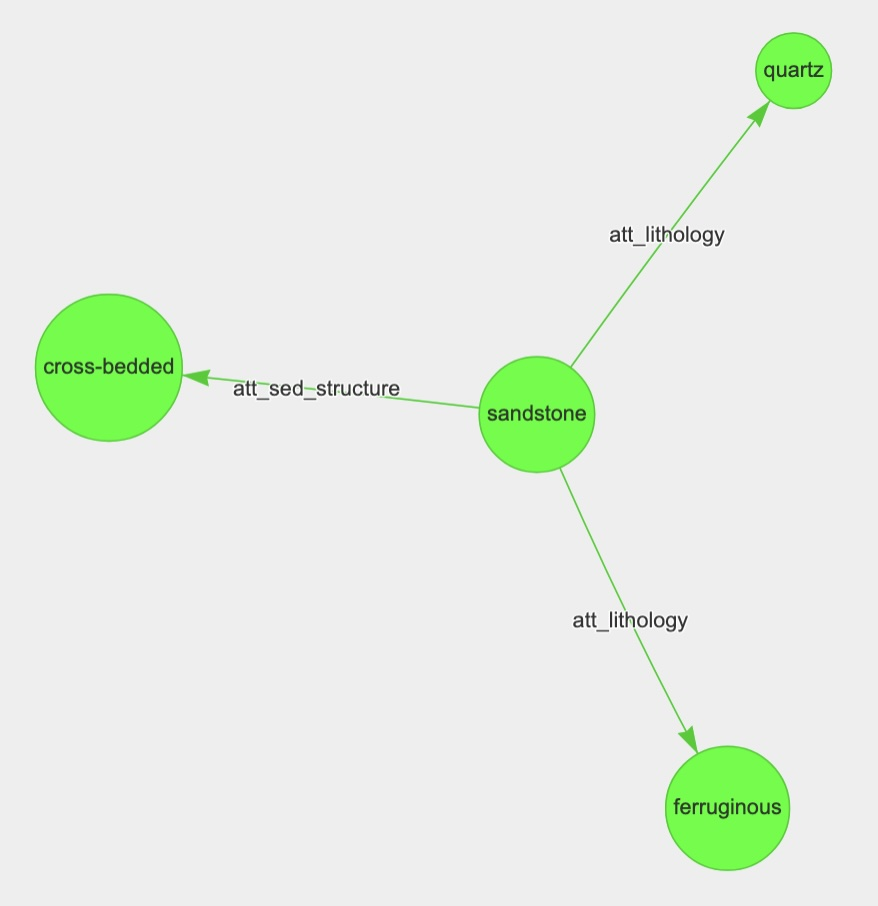
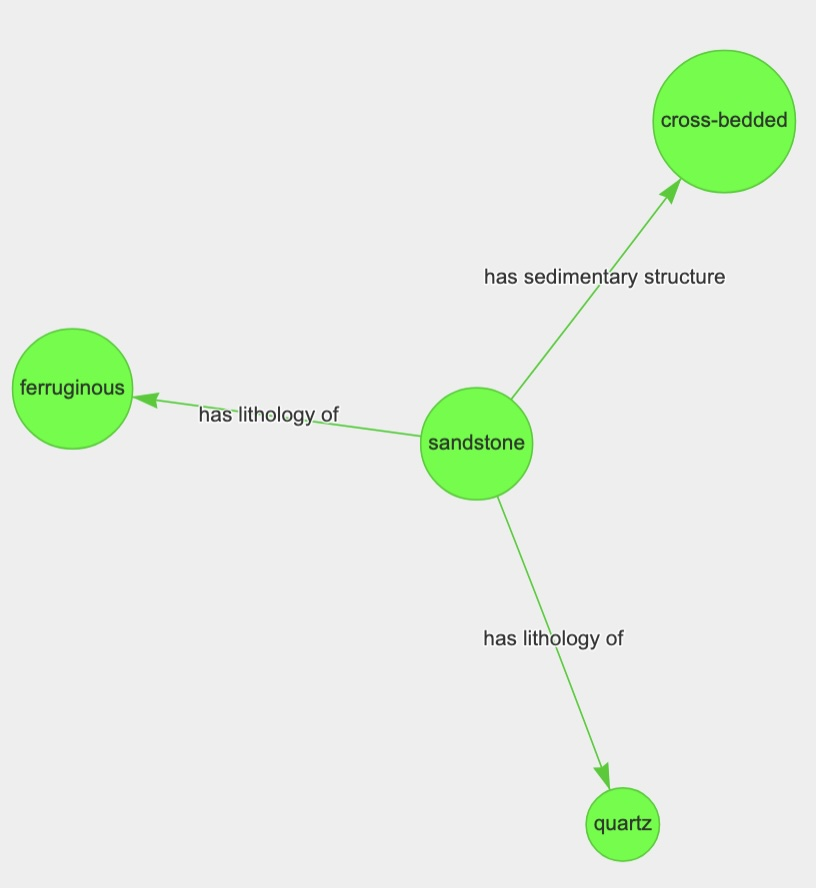
Updated image

diff --git a/rebel_kg/kg_runner.py b/rebel_kg/kg_runner.py
@@ -102,6 +102,10 @@ def read_args():
     parser.add_argument('--model_path', type = str, default = "Babelscape/rebel-large", help = "The model we want to use for generating kg")
     return parser.parse_args()
 
+relation_name_mappings = {
+    "att_lithology" : "has lithology of",
+    "att_sed_structure" : "has sedimentary structure",
+}
 def save_kg(kg, save_path):
     net = Network(directed=True, width="auto", height="700px", bgcolor="#eeeeee")
 
@@ -119,6 +123,8 @@ def save_kg(kg, save_path):
         src_articles = ",".join(src_articles)
 
         # Add in the edge
+        if r_type in relation_name_mappings:
+            r_type = relation_name_mappings[r_type]
         net.add_edge(head, tail, title = src_articles, label = r_type)
 
         # Add in the rows to the csv file
@@ -126,6 +132,7 @@ def save_kg(kg, save_path):
             for sentence in sources[article_id]:
                 df_rows.append([head, r_type, tail, article_id, sentence])
     
+    print("Creating graph with", len(kg.entities), "entities and", len(df_rows), "relationships")
     # Save the file
     net.repulsion(
         node_distance=200,
